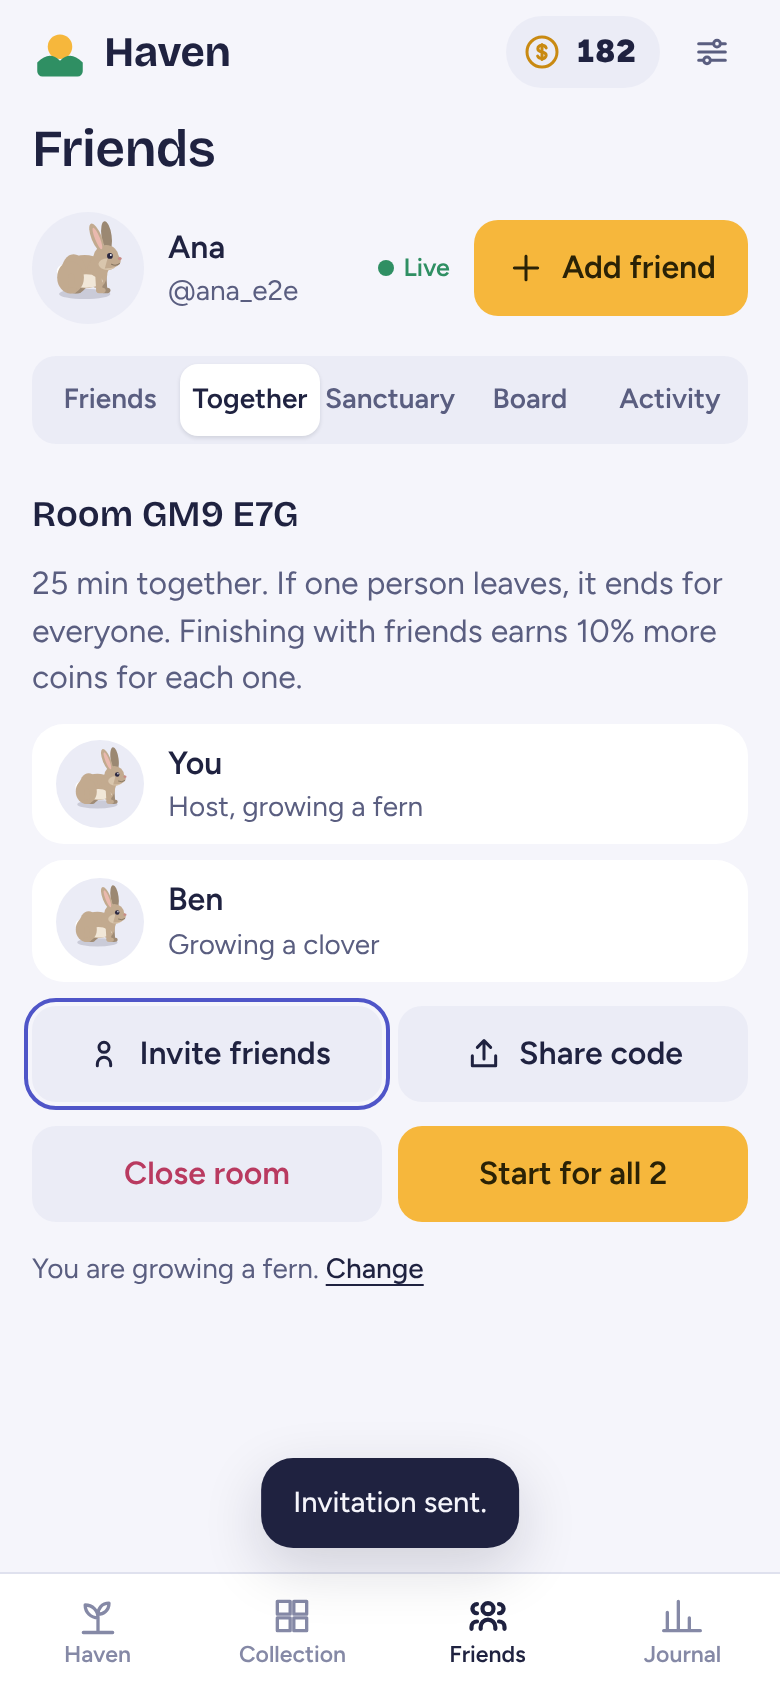
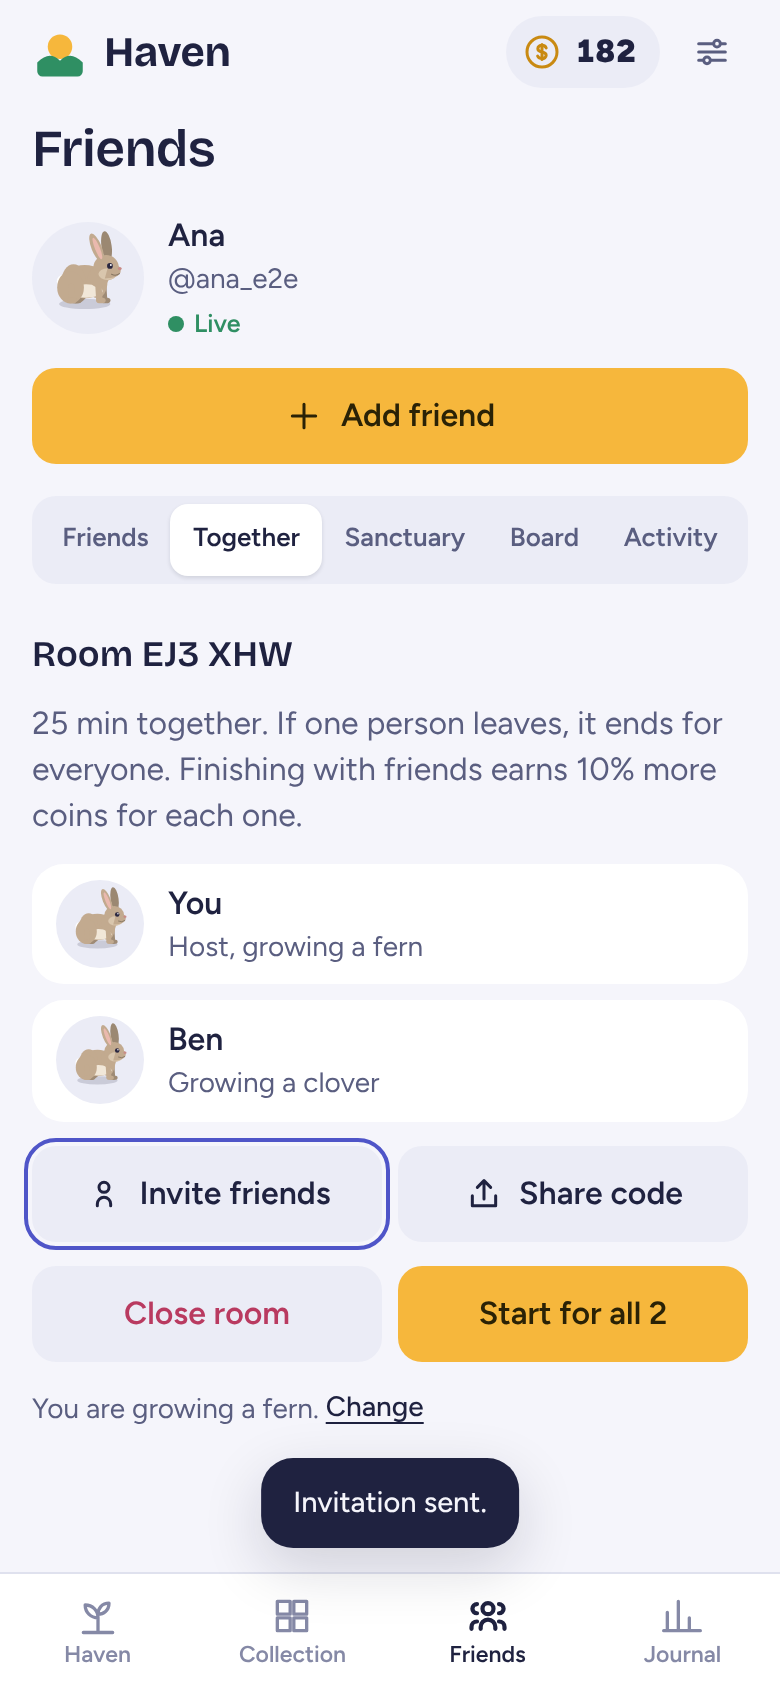
Fix layout on small and wide screens found by a sweep of every screen
- Friends: the five sections fit a 320 px phone; the profile card no longer
  squeezes the name, and the live status sits under it.
- Rows: buttons that do not fit (Decline and Accept) move under the text
  instead of running off the screen.
- Buttons in a row stay on one line and stack when there is no room.
- Sanctuary: the name can take two lines and Invite shows only its icon on small
  phones; name signs float above the animals and are shortened to their plot;
  it opens zoomed so each haven is a useful size, with the whole land a zoom out
  away; the loading text is readable in dark mode; rounded on wide screens; the
  list shows three faces so the name has room.
- Dog breeds sit four to a row.
- The browser test now checks every Friends section at 320 px.

Claude-Session: https://claude.ai/code/session_01U2vW6AhbJutTokDW5NJwig

diff --git a/src/style.css b/src/style.css
@@ -83,10 +83,13 @@ svg { display: block; }
 .secondary.danger { color: var(--berry); }
 .wide { width: 100%; }
 .button-row { display: flex; gap: var(--s2); flex-wrap: wrap; }
-.button-row > .primary, .button-row > .secondary { flex: 1 1 0; min-width: min-content; }
+.button-row > .primary, .button-row > .secondary { flex: 1 1 0; min-width: min-content; white-space: nowrap; }
 .button-row.quiet { justify-content: space-between; padding-top: var(--s2); }
 .segmented { display: grid; grid-auto-flow: column; grid-auto-columns: 1fr; padding: var(--s1); border-radius: var(--r-control); background: var(--soft); }
-.segmented button { min-height: 36px; border-radius: 9px; color: var(--muted); font-weight: 600; font-size: 14px; }
+.segmented button { min-height: 36px; padding: 0 6px; border-radius: 9px; color: var(--muted); font-weight: 600; font-size: 14px; white-space: nowrap; }
+.segmented:has(> :nth-child(5)) { grid-auto-columns: auto; overflow-x: auto; scrollbar-width: none; }
+.segmented:has(> :nth-child(5))::-webkit-scrollbar { display: none; }
+@media (max-width: 400px) { .segmented:has(> :nth-child(5)) button { font-size: 13px; padding: 0 5px; } }
 .segmented button[aria-selected="true"] { background: var(--card); color: var(--ink); box-shadow: 0 1px 2px rgba(20, 21, 43, .12); }
 .chips { display: flex; flex-wrap: wrap; gap: var(--s2); }
 .chip { min-width: 52px; min-height: var(--touch); padding: 0 var(--s3); border-radius: var(--r-chip); background: var(--soft); font-weight: 600; }
@@ -129,14 +132,14 @@ form { display: grid; gap: var(--s3); }
 
 /* ——— Collections ——— */
 .rows { display: grid; gap: var(--s2); }
-.row { display: flex; align-items: center; gap: var(--s3); min-height: 60px; padding: var(--s2) var(--s3); border-radius: var(--r-card); background: var(--card); }
-.row-main { flex: 1; min-width: 0; display: grid; gap: 1px; text-align: left; }
+.row { display: flex; align-items: center; flex-wrap: wrap; gap: var(--s2) var(--s3); min-height: 60px; padding: var(--s2) var(--s3); border-radius: var(--r-card); background: var(--card); }
+.row-main { flex: 1 1 150px; min-width: 0; display: grid; gap: 1px; text-align: left; }
 .row-main b { font-weight: 600; overflow-wrap: anywhere; }
-.row-main span, .row-main small { color: var(--muted); font-size: 14px; }
+.row-main span, .row-main small { color: var(--muted); font-size: 14px; overflow-wrap: anywhere; }
 .row-main.pick { display: flex; align-items: center; gap: var(--s3); min-height: var(--touch); border-radius: var(--r-control); }
 .row-main.pick > span { display: grid; gap: 1px; min-width: 0; }
 .row-main.pick[aria-pressed="true"] b::after { content: " ✓"; color: var(--leaf); }
-.row-end { display: flex; align-items: center; gap: var(--s2); flex: none; }
+.row-end { display: flex; align-items: center; gap: var(--s2); flex: none; margin-left: auto; }
 .row-end .primary, .row-end .secondary { min-height: 40px; padding: 0 var(--s3); font-size: 14px; }
 .row.me { outline: 2px solid var(--sun); outline-offset: -2px; }
 .minutes { font-weight: 600; font-size: 14px; font-variant-numeric: tabular-nums; white-space: nowrap; }
@@ -403,7 +406,10 @@ button.ent.animal:not(.sprouting)::before { content: ""; position: absolute; lef
 
 /* ——— Friends ——— */
 .me-card { display: flex; align-items: center; gap: var(--s3); flex-wrap: wrap; }
-.me-card .row-main { flex: 1; }
+.me-card .row-main { flex: 1 1 150px; }
+@media (max-width: 400px) { .me-card > .primary { flex: 1 1 100%; } }
+.me-card .row-main .live { font-size: 12.5px; color: var(--muted); margin-top: 2px; }
+.me-card .row-main .live.live { color: var(--leaf); }
 .live { font-size: 12.5px; font-weight: 600; color: var(--muted); display: flex; align-items: center; gap: 5px; }
 .live::before { content: ""; width: 8px; height: 8px; border-radius: 50%; background: var(--faint); }
 .live.live { color: var(--leaf); }
@@ -423,30 +429,34 @@ button.ent.animal:not(.sprouting)::before { content: ""; position: absolute; lef
 .avatar-pick input { position: absolute; opacity: 0; inset: 0; }
 .avatar-pick input:checked + span + .avatar { outline: 3px solid var(--sun); }
 .avatar-pick input:focus-visible + span + .avatar { outline: 3px solid var(--ring); }
-.breed-pick { margin: var(--s3) 0; }
+.breed-pick { margin: var(--s3) 0; display: grid; grid-template-columns: repeat(4, 1fr); gap: var(--s2); justify-items: center; }
+.breed-pick legend { grid-column: 1 / -1; }
 .breed-pick label { display: grid; justify-items: center; gap: 2px; border-radius: var(--r-control); width: 64px; }
 .breed-pick small { font-size: 11px; line-height: 1.2; text-align: center; color: var(--muted); }
 .breed-pick input:checked ~ small { color: var(--ink); font-weight: 600; }
 
 /* ——— Sanctuary ——— */
 .sanct-card .row-main.pick > .avatars { display: flex; flex: none; }
+@media (min-width: 600px) { .sanct-stage, .sanct-loading { margin: 0; border-radius: var(--r-card); } }
 .avatars .avatar { width: 34px; height: 34px; border: 2px solid var(--card); margin-left: -10px; }
 .avatars .avatar:first-child { margin-left: 0; }
 .page.sanctuary { max-width: 960px; }
 .sanct-head { display: flex; align-items: center; gap: var(--s3); }
 .sanct-head .row-main { display: grid; flex: 1; min-width: 0; }
-.sanct-head .page-title { overflow: hidden; text-overflow: ellipsis; white-space: nowrap; }
+.sanct-head .page-title { font-size: 22px; overflow-wrap: anywhere; display: -webkit-box; -webkit-line-clamp: 2; -webkit-box-orient: vertical; overflow: hidden; }
 .sanct-head .row-main > span { color: var(--muted); font-size: 14px; }
+/* On a small phone the name gets the room: Invite shows only its icon. */
+@media (max-width: 400px) { .sanct-head .secondary { width: var(--control); padding: 0; justify-content: center; } .sanct-head .secondary .label { display: none; } }
 .sanct-stage { position: relative; margin: 0 calc(-1 * var(--s4)); border-radius: 0; background: linear-gradient(var(--scene-top), var(--scene-bottom)); overflow: hidden; }
 .page.sanctuary.night .sanct-stage { background: linear-gradient(#191b42, #3f3d7c); }
 .sanct-scroll { overflow: auto; max-height: min(62dvh, 560px); overscroll-behavior: contain; -webkit-overflow-scrolling: touch; scrollbar-width: thin; }
 .sanct-inner { padding: var(--s2) var(--s3) var(--s6); }
 .sanct-stage .zoom { position: absolute; right: var(--s3); bottom: var(--s3); display: flex; gap: var(--s2); }
 .sanct-stage .zoom .pill { width: var(--touch); justify-content: center; padding: 0; font-size: 20px; }
-.plot-sign { position: absolute; transform: translate(-50%, -100%); padding: 2px 10px; border-radius: var(--r-chip); background: var(--glass); color: var(--scene-ink); font: 600 12px/20px var(--text); white-space: nowrap; pointer-events: none; backdrop-filter: blur(4px); -webkit-backdrop-filter: blur(4px); }
+.plot-sign { position: absolute; z-index: 100000; overflow: hidden; text-overflow: ellipsis; transform: translate(-50%, -100%); padding: 2px 10px; border-radius: var(--r-chip); background: var(--glass); color: var(--scene-ink); font: 600 12px/20px var(--text); white-space: nowrap; pointer-events: none; backdrop-filter: blur(4px); -webkit-backdrop-filter: blur(4px); }
 .plot-sign.flash { animation: sign-flash 1.6s ease-out; }
 @keyframes sign-flash { 0%, 40% { background: var(--sun); color: var(--sun-ink); transform: translate(-50%, -100%) scale(1.25); } 100% { transform: translate(-50%, -100%) scale(1); } }
-.sanct-loading { display: grid; justify-items: center; align-content: center; gap: var(--s4); min-height: min(62dvh, 560px); margin: 0 calc(-1 * var(--s4)); padding: var(--s5); background: linear-gradient(var(--scene-top), var(--scene-bottom)); color: var(--scene-ink); }
+.sanct-loading { display: grid; justify-items: center; align-content: center; gap: var(--s4); min-height: min(62dvh, 560px); margin: 0 calc(-1 * var(--s4)); padding: var(--s5); background: linear-gradient(var(--scene-top), var(--scene-bottom)); color: var(--ink); }
 .sanct-loading p { font-weight: 600; }
 .sanct-loading .meter { width: min(240px, 70%); background: var(--glass); }
 .sanct-loading .meter i { transition: width .5s ease; }

diff --git a/src/views/sanctuary.js b/src/views/sanctuary.js
@@ -23,7 +23,7 @@ let stage = null, raf = 0, last = 0, refreshTimer = null;
 export function tab(app) {
   const list = app.social.data.sanctuaries;
   if (!list) return empty('Loading your sanctuaries.');
-  const cards = list.map(s => `<li class="row sanct-card"><button class="row-main pick" data-action="sanct-open" data-id="${s.id}"><span class="avatars">${s.members.slice(0, 5).map(m => avatar(m.avatar)).join('')}</span><span><b>${e(s.name)}</b><small>${s.members.length} of ${MAX} havens${s.members.some(m => m.focusing) ? `, ${s.members.filter(m => m.focusing).length} focusing` : ''}</small></span></button><div class="row-end"><button class="primary" data-action="sanct-open" data-id="${s.id}">Visit</button></div></li>`).join('');
+  const cards = list.map(s => `<li class="row sanct-card"><button class="row-main pick" data-action="sanct-open" data-id="${s.id}"><span class="avatars">${s.members.slice(0, 3).map(m => avatar(m.avatar)).join('')}</span><span><b>${e(s.name)}</b><small>${s.members.length} of ${MAX} havens${s.members.some(m => m.focusing) ? `, ${s.members.filter(m => m.focusing).length} focusing` : ''}</small></span></button><div class="row-end"><button class="primary" data-action="sanct-open" data-id="${s.id}">Visit</button></div></li>`).join('');
   return `<p class="lead">A sanctuary joins friends' havens into one land. Animals wander from haven to haven.</p>
 ${cards ? `<ul class="rows sanct-list">${cards}</ul>` : empty('You are not in a sanctuary yet. Make one and invite friends, or join one with its code.')}
 <div class="button-row"><button class="${cards ? 'secondary' : 'primary'}" data-action="sanct-new">${icon('plus')}New sanctuary</button><button class="secondary" data-action="sanct-join">Join with a code</button></div>`;
@@ -45,16 +45,16 @@ export function render(app) {
   const ui = app.ui.sanct || {}, s = ui.data;
   const head = `<div class="sanct-head"><button class="iconbutton" data-action="sanct-back" aria-label="Back to Friends">${icon('back')}</button>
 <div class="row-main"><h1 class="page-title">${e(s?.name || ui.name || 'Sanctuary')}</h1><span>${s ? `${s.members.length} ${s.members.length === 1 ? 'haven' : 'havens'}` : ''}</span></div>
-${s ? `<button class="secondary" data-action="sanct-invite">${icon('plus')}Invite</button>` : ''}</div>`;
+${s ? `<button class="secondary" data-action="sanct-invite" aria-label="Invite">${icon('plus')}<span class="label">Invite</span></button>` : ''}</div>`;
   if (!s) return `<section class="page sanctuary" data-page="sanctuary">${head}${loading(ui)}</section>`;
   const { plots, things, dims } = ui.layout;
   const me = app.social.account?.id, night = isNight(app.now());
-  // At zoom 1 the land fits the screen's width, but never so small that a haven is a speck.
-  const zoom = ui.zoom || 1, least = Math.round((dims[0] + dims[1]) * 14 * zoom);
+  // At zoom 1 the whole land fits the screen's width; zooming in makes it wider and it scrolls.
+  const zoom = ui.zoom || 1;
   const members = s.members.map(m => `<li class="row"><button class="row-main pick" data-action="sanct-find" data-id="${m.id}">${avatar(m.avatar)}<span><b>${e(m.id === me ? 'You' : m.name)}</b><small class="presence">${m.id === s.owner ? 'Looks after it. ' : ''}${m.focusing ? 'Focusing now' : m.online ? 'Online' : `Level ${Number(m.card?.level) || 1}`}</small></span></button></li>`).join('');
   return `<section class="page sanctuary${night ? ' night' : ''}" data-page="sanctuary">${head}
-<div class="sanct-stage"><div class="sanct-scroll" tabindex="0" aria-label="The sanctuary. Scroll to look around."><div class="sanct-inner" style="width:${Math.round(zoom * 100)}%;min-width:${least}px">${sanctuaryHTML({ plots, things, label: `${s.name}: ${s.members.map(m => m.name).join(', ')}` })}</div></div>
-<div class="zoom" role="group" aria-label="Zoom"><button class="pill" data-action="sanct-zoom" data-step="-1" aria-label="Zoom out" ${zoom <= 1 ? 'disabled' : ''}>−</button><button class="pill" data-action="sanct-zoom" data-step="1" aria-label="Zoom in" ${zoom >= 3 ? 'disabled' : ''}>+</button></div></div>
+<div class="sanct-stage"><div class="sanct-scroll" tabindex="0" aria-label="The sanctuary. Scroll to look around."><div class="sanct-inner" style="width:${Math.round(zoom * 100)}%">${sanctuaryHTML({ plots, things, label: `${s.name}: ${s.members.map(m => m.name).join(', ')}` })}</div></div>
+<div class="zoom" role="group" aria-label="Zoom"><button class="pill" data-action="sanct-zoom" data-step="-1" aria-label="Zoom out" ${zoom <= 1 ? 'disabled' : ''}>−</button><button class="pill" data-action="sanct-zoom" data-step="1" aria-label="Zoom in" ${zoom >= 4 ? 'disabled' : ''}>+</button></div></div>
 <h2 class="section-title">In this sanctuary</h2><ul class="rows">${members}</ul>
 <div class="button-row quiet">${s.owner === me ? '<button class="linklike" data-action="sanct-manage">Rename or ask someone to leave</button>' : ''}<button class="linklike danger" data-action="sanct-leave">Leave the sanctuary</button></div></section>`;
 }
@@ -86,6 +86,9 @@ export async function open(app, id) {
     for (let i = 0; i < 40; i++) world.step(0.1, { night: isNight(app.now()), hungry: new Set() });
     await wait(Math.max(0, LEAST_LOADING - (Date.now() - started)));
     if (app.ui.sanct !== ui) return;
+    // Start close enough that each haven is about 160 px across; the whole land is a zoom out away.
+    const across = (layout.dims[0] + layout.dims[1]) / (2 * layout.plots[0].size);
+    if (!ui.zoom || ui.zoom === 1) ui.zoom = Math.min(4, Math.max(1, Math.round((across * 160) / Math.max(320, innerWidth - 32) * 4) / 4));
     Object.assign(ui, { data, layout, world });
     app.renderIf('sanctuary');
   } catch (error) {
@@ -200,7 +203,7 @@ export const actions = {
   'sanct-zoom': (app, d) => {
     const ui = app.ui.sanct, scroll = $('.page.sanctuary .sanct-scroll');
     const fx = scroll ? (scroll.scrollLeft + scroll.clientWidth / 2) / scroll.scrollWidth : 0.5, fy = scroll ? (scroll.scrollTop + scroll.clientHeight / 2) / scroll.scrollHeight : 0.5;
-    ui.zoom = Math.min(3, Math.max(1, (ui.zoom || 1) * (Number(d.step) > 0 ? 1.25 : 0.8)));
+    ui.zoom = Math.min(4, Math.max(1, (ui.zoom || 1) * (Number(d.step) > 0 ? 1.25 : 0.8)));
     app.render();
     const again = $('.page.sanctuary .sanct-scroll');
     if (again) { again.scrollLeft = fx * again.scrollWidth - again.clientWidth / 2; again.scrollTop = fy * again.scrollHeight - again.clientHeight / 2; }

diff --git a/src/scene.js b/src/scene.js
@@ -197,7 +197,8 @@ export function sanctuaryHTML({ plots, things = [], label = '' }) {
     if (q.u0 === p.u0 + p.size && q.v0 === p.v0) for (let c = 0.5; c < p.size; c += 1.5) { const [x, y] = at(q.u0, p.v0 + c); paths += `<ellipse cx="${x}" cy="${y}" rx="7" ry="3.4" fill="#e7dcc4" opacity=".85"/>`; }
     if (q.v0 === p.v0 + p.size && q.u0 === p.u0) for (let r = 0.5; r < p.size; r += 1.5) { const [x, y] = at(p.u0 + r, q.v0); paths += `<ellipse cx="${x}" cy="${y}" rx="7" ry="3.4" fill="#e7dcc4" opacity=".85"/>`; }
   }
-  const signs = plots.map(p => { const pos = project([U, V], p.u0 + 0.35, p.v0 + p.size / 2); return `<span class="plot-sign" style="left:${pos.left.toFixed(2)}%;top:${pos.top.toFixed(2)}%;z-index:${pos.depth}">${escapeHTML(p.name)}</span>`; }).join('');
+  // A name sign at the back of each plot, never wider than most of its plot, so signs do not run into each other.
+  const signs = plots.map(p => { const pos = project([U, V], p.u0 + 0.35, p.v0 + p.size / 2); return `<span class="plot-sign" style="left:${pos.left.toFixed(2)}%;top:${pos.top.toFixed(2)}%;max-width:${((p.size * W * 0.8) / w * 100).toFixed(1)}%">${escapeHTML(p.name)}</span>`; }).join('');
   const order = things.filter(t => speciesById(t.species));
   return `<div class="world sanctuary-land" data-u="${U}" data-v="${V}" style="aspect-ratio:${w} / ${h}"${label ? ` role="group" aria-label="${escapeHTML(label)}"` : ''}>
 <svg class="land" viewBox="${x0} ${y0} ${w} ${h}" aria-hidden="true">${faces}${ground}${paths}${tufts}</svg>${signs}${order.map(t => entity([U, V], t, false)).join('')}</div>`;

diff --git a/src/views/friends.js b/src/views/friends.js
@@ -27,8 +27,7 @@ export function render(app) {
   const tab = app.ui.friendsTab, me = social.account;
   const body = tab === 'friends' ? friendsTab(app) : tab === 'together' ? togetherTab(app) : tab === 'sanctuary' ? sanctuary.tab(app) : tab === 'board' ? boardTab(app) : activityTab(app);
   return `<section class="page friends" data-page="friends"><h1 class="page-title">Friends</h1>
-<div class="me-card">${avatar(me.avatar, 'large')}<div class="row-main"><b>${e(me.name)}</b><span>@${e(me.handle)}</span></div>
-<span class="live ${social.status}" role="status">${STATUS[social.status]}</span>
+<div class="me-card">${avatar(me.avatar, 'large')}<div class="row-main"><b>${e(me.name)}</b><span>@${e(me.handle)}</span><span class="live ${social.status}" role="status">${STATUS[social.status]}</span></div>
 <button class="primary" data-action="add-friend">${icon('plus')}Add friend</button></div>
 ${social.status === 'offline' ? '<p class="note">Cannot reach the friends server. Sessions are saved on this phone and sent when you are back.</p>' : ''}
 ${segmented('friends-tab', TABS, tab, 'Friends sections')}${body}</section>`;

diff --git a/VALIDATION.md b/VALIDATION.md
@@ -13,7 +13,7 @@ Last updated 15 November 2026, version 1.3.0.
 | The animal simulation, with a fixed seed: every animal has traits, roaming the whole land without leaving it, greeting, visiting what they like (swimming in the pond, down the burrow), flying, walking short trips and perching, sleeping at night while night animals carry on, hungry animals being slow, following the haven as it changes, a crowd of all 27, hops that rise, tip and land, walkers easing in and out and going round a boulder and the pond, the right action in the right place (swim, drink, graze, sit, perch), coming when called, eating when fed and jumping when petted, and in a sanctuary of three plots, crossing between havens without stepping off the land | `tests/world.test.mjs` | 13 |
 | Session controller: finishing, cancelling, leaving in a browser and in the apps, restart, pomodoro, rooms | `tests/timer.test.mjs` | 10 |
 | Friends server, on the real Workers runtime (workerd, through Miniflare) with real WebSockets: every route, live pushes, limits, rooms under both rules, linking, backup, deletion, CORS, the test clock being off when deployed, saves refused when based on an old copy, news for a closed app, sanctuaries and their limits | `tests/hub.test.mjs` | 24 |
-| The app in headless Chrome at phone size, two people against the local friends server: a full session growing where it was planted, dragging it across the land, an animal moving in and roaming, feeding, petting and naming it, unlocking plants and nature, deep focus, profiles, a live friend request, live presence and a cheer, a room started together, the board and feed, visiting and a gift, a failed "together" room, the journal, settings, a second device, reload, 360 px and 1280 px widths, no console errors, the tab bar evenly divided, chart bars standing on their line, two devices staying in step live, and a sanctuary: making it, the loading screen, inviting a friend who joins, one land of two havens with animals moving | `tests/browser.mjs` | 22 |
+| The app in headless Chrome at phone size, two people against the local friends server: a full session growing where it was planted, dragging it across the land, an animal moving in and roaming, feeding, petting and naming it, unlocking plants and nature, deep focus, profiles, a live friend request, live presence and a cheer, a room started together, the board and feed, visiting and a gift, a failed "together" room, the journal, settings, a second device, reload, 360 px and 1280 px widths, no console errors, the tab bar evenly divided, chart bars standing on their line, two devices staying in step live, and a sanctuary: making it, the loading screen, inviting a friend who joins, one land of two havens with animals moving, every Friends section at 320 px | `tests/browser.mjs` | 22 |
 | The animals' moving parts, measured on screen in Chrome and in WebKit: standing in one piece, the head dipping about its pivot, lying down with eyes shut, rising off the ground while the shadow stays, legs swinging from the hip, wings spreading and beating, legs striding, sitting low in water | `tests/rig.mjs` | 7 each |
 
 The Worker also passes `wrangler deploy --dry-run` (config accepted, bundle 55 KiB).
@@ -32,7 +32,7 @@ For 1.2.0: all 27 animals standing, and each in its poses (walk, run, eat, rest,
 
 Every plant, animal and nature item at full size and through its growth stages. A haven of 22 things over several seconds by day and at night, the care screens and arranging. Each screen in light and dark at 390 by 844, the Focus screen through a session from sunrise to sunset and at night, a full haven, and the wide layout. Screenshots in `docs/media` come from the browser test.
 
-For 1.3.0: the new animals (giraffe, elephant), the seven dog breeds and the two new plants on a sheet; a haven holding all of them, including a shiba saved by 1.2; the breed picker; the notification settings; the sanctuary list, its loading screen and a sanctuary of two havens in light and dark.
+For 1.3.0, a sweep of every screen and dialog at 320, 390, 768 and 1280 px in light and dark, with long names, a full sanctuary of nine havens, a new person with nothing grown, the phone apps' settings, and a sanctuary that loads slowly or fails, checked by eye and for anything running off the screen. Also the new animals (giraffe, elephant), the seven dog breeds and the two new plants on a sheet; a haven holding all of them, including a shiba saved by 1.2; the breed picker; the notification settings; the sanctuary list, its loading screen and a sanctuary of two havens in light and dark.
 
 ## The phone apps
 
